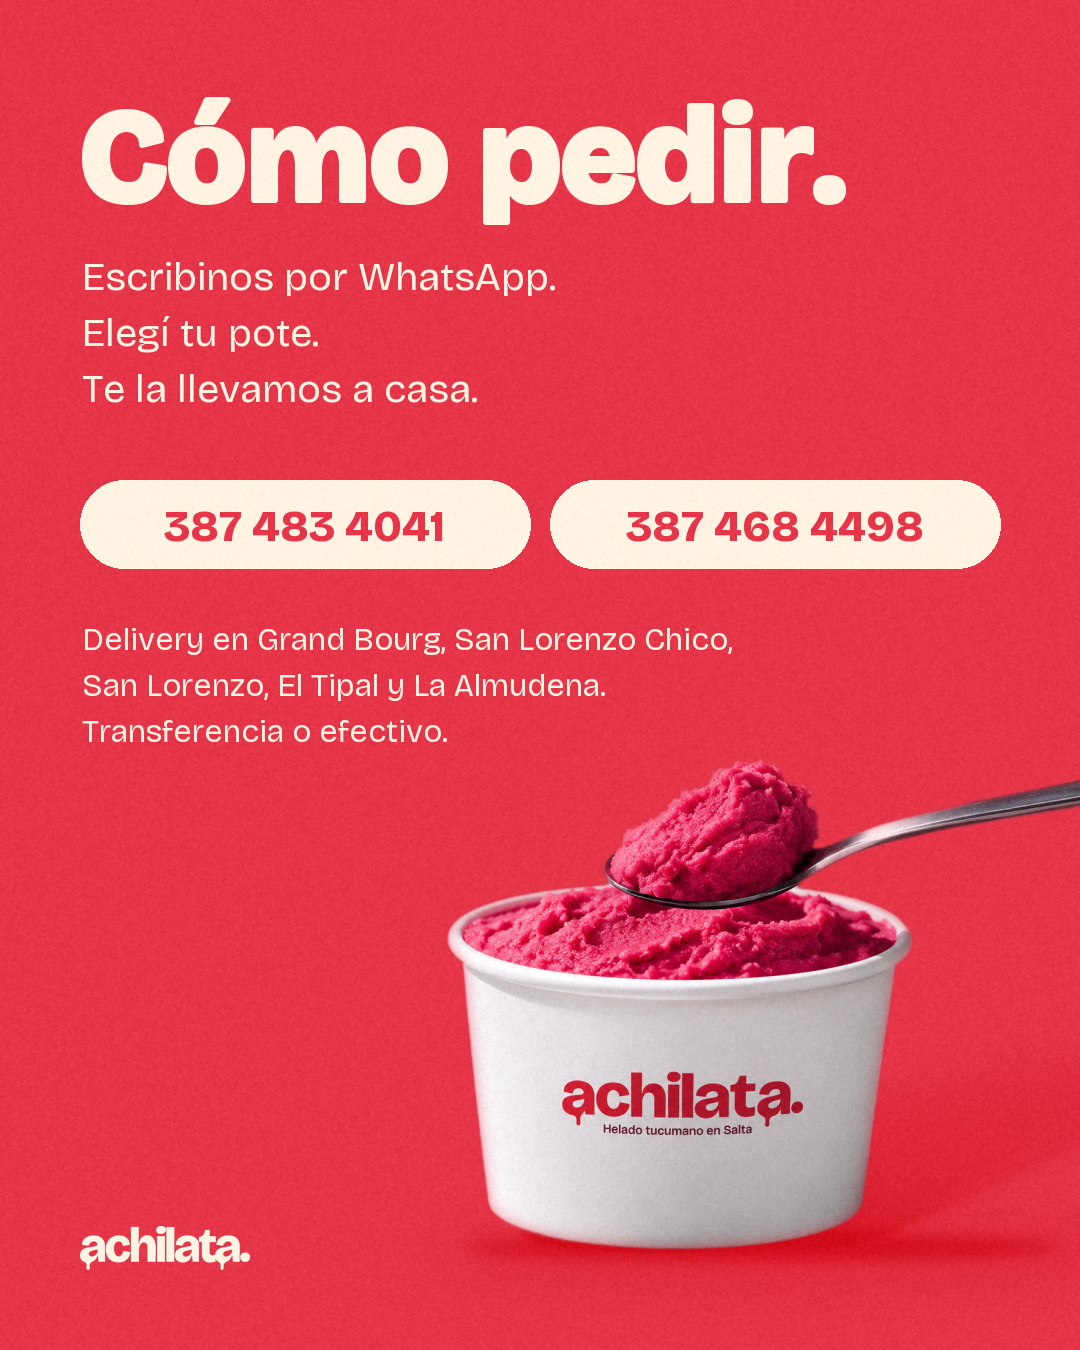
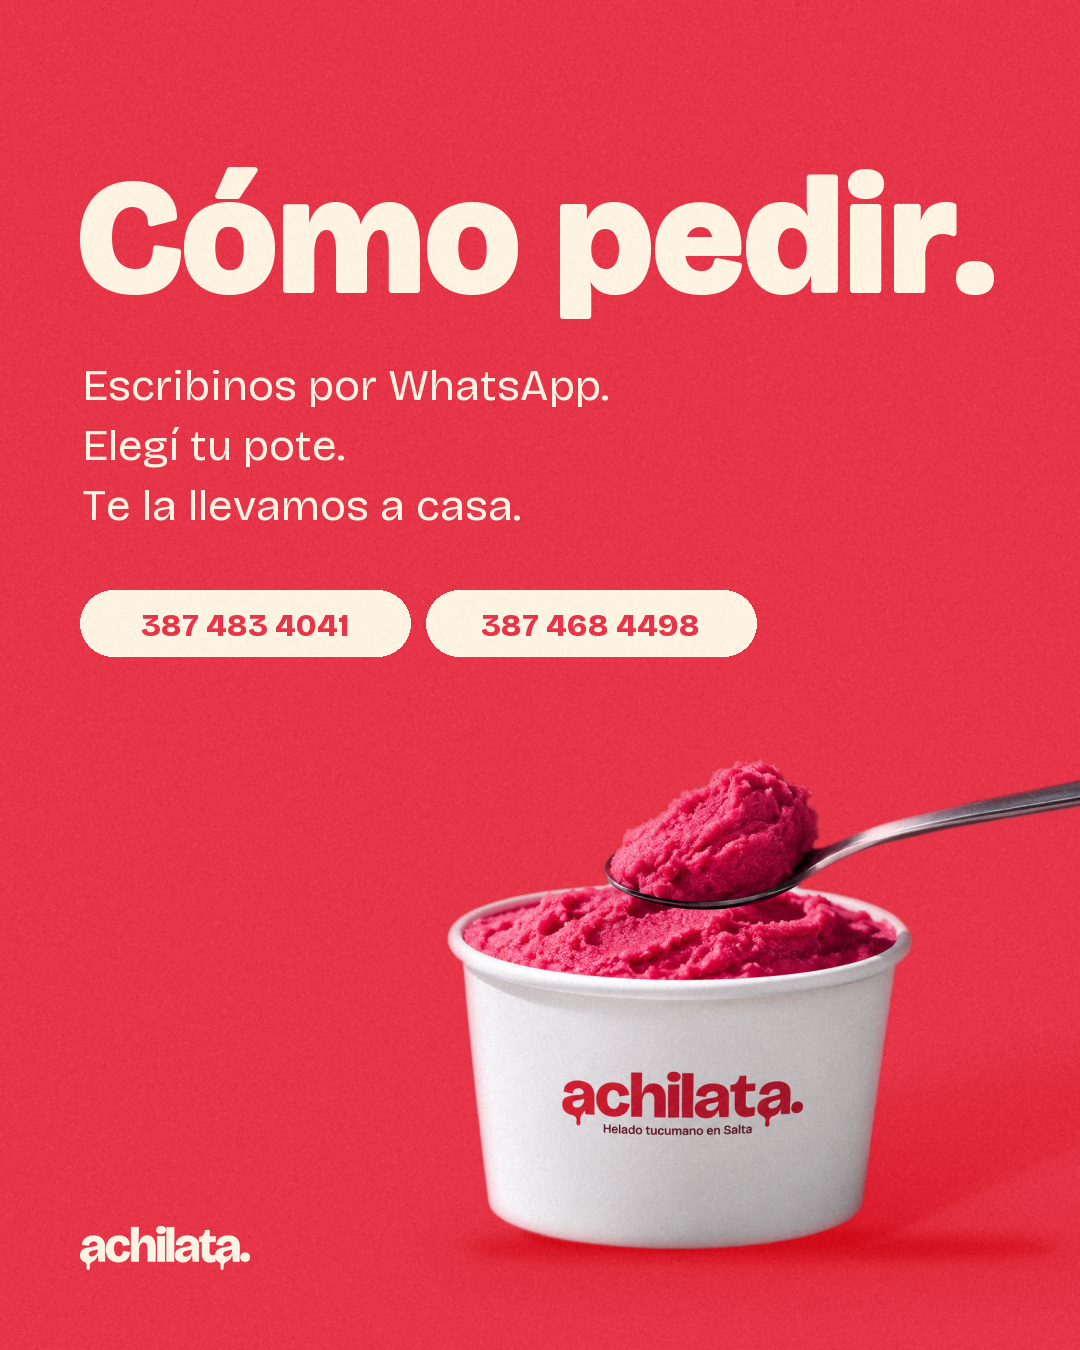
P02 4: sin zonas ni pago, botones más chicos y bloque redistribuido
Claude-Session: https://claude.ai/code/session_01BnyjGjLpoeonfPdh3MDwXn

Changed region(s): [[0.0611, 0.0622, 0.9472, 0.56], [0.8861, 0.1867, 0.9167, 0.2178]]

diff --git a/06_Assets/fotos/herramientas/build_h05_p08_p02.py b/06_Assets/fotos/herramientas/build_h05_p08_p02.py
@@ -117,12 +117,10 @@ def pill(d,x,y,w,h,text,font):
     d.rounded_rectangle((x,y,x+w,y+h),radius=h//2,fill=CREMA)
     d.text((x+w/2,y+h/2+2),text,font=font,fill=ROJ,anchor='mm')
 def atras(d,im):
-    T(d,80,200,'Cómo pedir.',XB(130))
+    T(d,76,290,'Cómo pedir.',fit('Cómo pedir.',920))  # el título a todo el ancho y el bloque bajado, para que no quede hueco sobre el pote
     for i,s in enumerate(['Escribinos por WhatsApp.','Elegí tu pote.','Te la llevamos a casa.']):
-        T(d,82,290+i*56,s,RG(40),stroke=False)
-    pill(d,80,480,450,88,'387 483 4041',XB(44)); pill(d,550,480,450,88,'387 468 4498',XB(44))
-    for i,s in enumerate(['Delivery en Grand Bourg, San Lorenzo Chico,','San Lorenzo, El Tipal y La Almudena.','Transferencia o efectivo.']):
-        T(d,82,650+i*46,s,RG(32),stroke=False)
+        T(d,82,400+i*60,s,RG(44),stroke=False)
+    pill(d,80,590,330,66,'387 483 4041',XB(32)); pill(d,426,590,330,66,'387 468 4498',XB(32))
 def adelante(d,im):
     lg=logo(170); im.alpha_composite(lg,(80,1270-lg.height))
 L.render(atras,adelante).save(f'{O}/P02 4 como pedir.png')

diff --git a/04_Contenido/registro_publicaciones.md b/04_Contenido/registro_publicaciones.md
@@ -15,3 +15,4 @@
 | 23/11/2026 | Instagram | Carrusel P02 El menú, v2 | Mismos textos con letra crema, fondo liso sin degradé y sombras rehechas | | Reenviado al WhatsApp de Lauti |
 | 23/11/2026 | Instagram | H05 2, P08 y P02 | Mismo diseño con el recorte integrado de H05 1 v3: sin halo, borde suave, light wrap, rebote rojo y grano parejo | | Reenviados al WhatsApp de Lauti |
 | 24/11/2026 | Instagram | Historia H05 1, v4 | Bajada cambiada: Grand Bourg, San Lorenzo Chico, San Lorenzo, El Tipal, La Almudena y más | | Hecha a pedido. Resto igual a v3. Enviado al WhatsApp de Lauti |
+| 24/11/2026 | Instagram | P02 4 Cómo pedir, v2 | Sin el texto de zonas y pago, botones de WhatsApp más chicos, título a todo el ancho y bloque redistribuido | | Hecha a pedido. Enviado al WhatsApp de Lauti |
